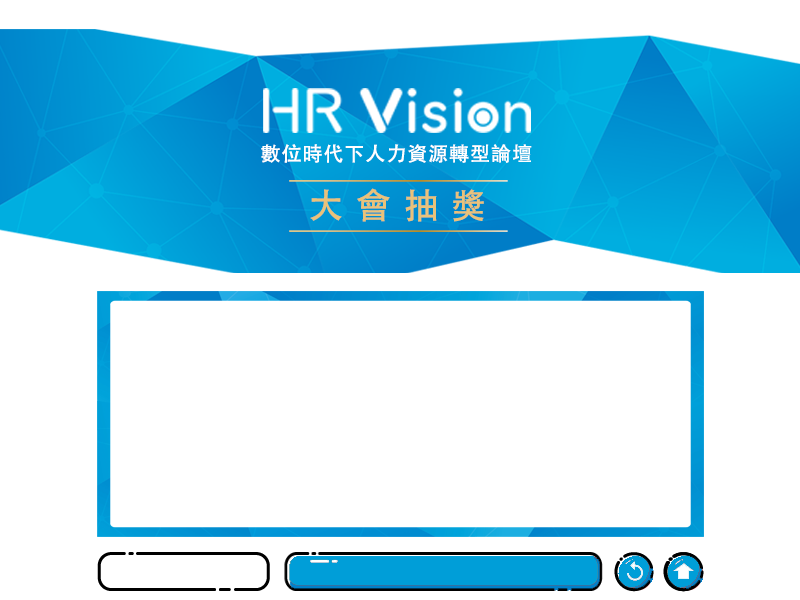
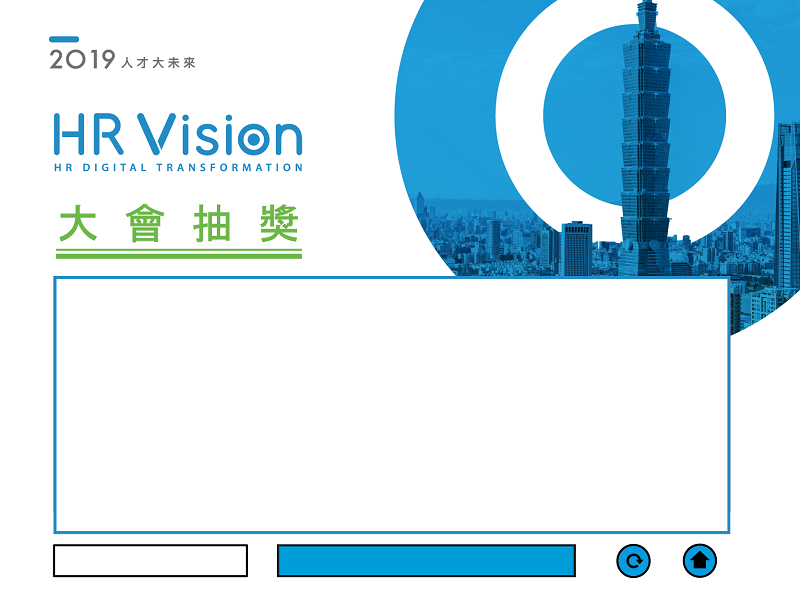
Change 2019 bg.png

diff --git a/css/style.css b/css/style.css
@@ -345,6 +345,7 @@ body > div > footer {
     height: 20%;
     text-align: center;
     vertical-align: middle;
+    margin-top: -10px;
 }
 
 body > div > footer > div {
@@ -363,8 +364,9 @@ body > div > footer > div > input {
     -webkit-box-sizing: border-box;
     -moz-box-sizing: border-box;
     box-sizing: border-box;
-    width: 172px;
-    margin-right: 16px;
+    width: 165px;
+    height: 0px;
+    margin-right: 30px;
 }
 
 body > div > footer > div > button {
@@ -375,11 +377,13 @@ body > div > footer > div > button {
     height: 3rem;
     border-radius: 1rem;
     font-size: 1rem;
+
 }
 
 body > div > footer > div > button#btnStart {
-    width: 305px;
-    margin-right: 16px;
+    height: 0px;
+    width: 280px;
+    margin-right: 50px;
     color: white;
 }
 
@@ -388,6 +392,7 @@ body > div > footer > div > button#btnReset {
     height: 37px;
     border-radius: 50%;
     padding: 0;
+    margin-left: 0px;
     display: inline-block;
 }
 
@@ -396,6 +401,7 @@ body > div > footer > div > button#btnImport {
     height: 37px;
     border-radius: 50%;
     padding: 0;
+    margin-left: 30px;
     display: inline-block;
 }
 

diff --git a/index.html b/index.html
@@ -2,7 +2,7 @@
 <html>
 <head>
     <meta charset="UTF-8">
-    <title>2018 HR Vision 問卷抽獎</title>
+    <title>2019 HR Vision 大會抽獎</title>
     <link rel="stylesheet" href="css/style.css"/>
     <link rel="stylesheet" href="css/animate.css"/>
     <script src="js/lib/jquery-1.12.4.min.js"></script>
